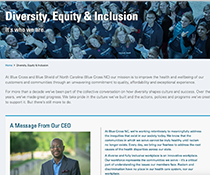
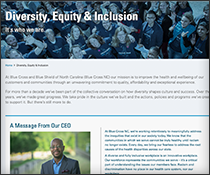
Newsletter

diff --git a/assets/newsletter/Newsletter 7/8.2020.html b/assets/newsletter/Newsletter 7/8.2020.html
@@ -425,7 +425,8 @@ a {
                                               <br /> <br />
                                               <p
                                                 style="margin: 0 auto 12px auto; max-width:800px; text-align:left;">
-                                                Donec ullamcorper nulla non metus auctor fringilla. Fusce dapibus, tellus ac cursus commodo, tortor mauris condimentum nibh, ut fermentum massa justo sit amet risus. Praesent commodo cursus magna, vel scelerisque nisl consectetur et. Cum sociis natoque penatibus et magnis dis parturient montes, nascetur ridiculus mus. </p>
+                                                This new “together mode” view in Teams cracks me up! I’m not sure that this is THE way to foster engagement, but I certainly appreciate the effort. We have to be willing to try new things if we expect to pursue change.  And that’s how I would sum up the work featured below.  Each one of these projects solves a longstanding challenge in a bold, new way. Enjoy!
+                                            </p>
                                               <p
                                                 style="margin: 0 0 10px 0; font-family: sans-serif; font-size: 12px; line-height: 125%; text-align: left; color: #333333; ">
                                                 - Patrick Harrell</p>
